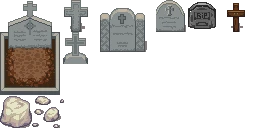
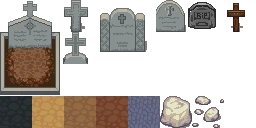
Lay a stone floor that keeps its mouth shut
The floor is stone now, and rolled: five fills, one picked per fight, laid in
world space so it lies down with the grid.

This looks like walking back the decision that threw the generated floor out,
and it is the opposite. That decision's sentence was not "no picture" — it was
that the ground is the one surface here which must not have opinions, because
every mechanic is drawn on it and those are what a player is reading. The
generated floor was a painted image that added light and had to be knocked down
to a third of its strength before it stopped competing. A dark pebbled grain
adds none: it breaks up a tone instead of arguing with a telegraph.

The alpha was looked at rather than reasoned about, which is what the comment
above it now claims and so had to be true. Rendered against a live telegraph at
three values: at 0.15 it is the old floor, at 0.60 the grid lines start coming
forward and the ground begins competing for the eye, and at 0.35 the floor
reads as stone and the red ellipse still reads first.

**Five stones and none of their colour.** The fills are sand, clay, brick and
slate, and a floor that took their hue would be an orange arena on one pull and
a red one on the next — the encounter's own accent drowned by whatever the tile
happened to be. So the saturation is composited out of the tile and only its
light and shade survive, which is the same rule the slabs under it already
keep: the floor takes the fight's colour, not the artist's. What varies between
[…]

Changed region(s): [[0.0, 0.75, 0.875, 1.0]]

diff --git a/src/render/draw.ts b/src/render/draw.ts
@@ -35,7 +35,7 @@ import {
 import type { Actor, BgState, ProjectileKind, SimState, Vec2 } from '../sim/types'
 import { iconFor } from './icons'
 import type { Effects } from './effects'
-import { drawScenery } from './scenery'
+import { drawScenery, floorTexture } from './scenery'
 import { COLORS, L, classColor } from './theme'
 import { drawBody, hasBody } from './lpcimage'
 import { drawBolt } from './boltimage'
@@ -284,7 +284,12 @@ export function drawWorld(
   ctx.save()
   ctx.translate(shove.x * L.scale, shove.y * L.scale)
 
-  drawArena(ctx, s.mode === 'raid' ? encounterAt(s.encounter).accent : COLORS.boss)
+  drawArena(
+    ctx,
+    s.mode === 'raid' ? encounterAt(s.encounter).accent : COLORS.boss,
+    s.seed,
+    s.encounter,
+  )
   // Outside the wall and under everything in the fight, which is where it
   // belongs twice over: it is scenery, and the floor it is standing beside is
   // the surface every mechanic is read on.
@@ -617,6 +622,15 @@ function drawRaidFlash(ctx: CanvasRenderingContext2D, s: SimState): void {
  * space and slides past the player, so a slab has to be the same slab every
  * frame or the floor boils.
  */
+/**
+ * How much of the stone is let through.
+ *
+ * The one number in this file that has to be looked at rather than reasoned
+ * about, so it was: rendered against a telegraph at several values and judged
+ * on whether the telegraph still reads first.
+ */
+const FLOOR_STONE = 0.35
+
 function slabAccent(colour: string, alpha: number): string {
   // The accent table is all six-digit hex, which is the only form this reads.
   if (!/^#[0-9a-f]{6}$/i.test(colour)) return colour
@@ -634,7 +648,12 @@ function slabTone(gx: number, gy: number): number {
   return ((h ^ (h >>> 16)) >>> 8) & 0xff
 }
 
-function drawArena(ctx: CanvasRenderingContext2D, accent: string = COLORS.boss): void {
+function drawArena(
+  ctx: CanvasRenderingContext2D,
+  accent: string = COLORS.boss,
+  seed = 0,
+  encounter = 0,
+): void {
   // The arena is centred on the world origin; the camera decides where that
   // lands on screen. The grid is drawn in world space too, so it slides past
   // the player and makes their own movement readable.
@@ -677,6 +696,27 @@ function drawArena(ctx: CanvasRenderingContext2D, accent: string = COLORS.boss):
   ctx.translate(c.x, c.y)
   ctx.scale(1, TILT)
   ctx.rotate(viewAngle())
+
+  // The floor's own stone, laid in world space so it lies down with the grid.
+  //
+  // Under the slabs rather than instead of them: the slabs are a hash of the
+  // cell and never repeat, and the stone is thirty-two pixels that repeat
+  // forever, so the two answer different halves of the same question — one
+  // stops the ground being a flat fill at arm's length, the other stops it
+  // being one at a glance.
+  //
+  // Dark and low. What the generated floor was thrown out for was competing
+  // with the telegraphs drawn on it, and the lesson was not "no picture" but
+  // "the ground must not have opinions": a texture that adds light argues with
+  // every mechanic, and one that only breaks up a tone does not.
+  const stone = floorTexture(ctx, seed, encounter)
+  if (stone) {
+    ctx.save()
+    ctx.globalAlpha = FLOOR_STONE
+    ctx.fillStyle = stone
+    ctx.fillRect(-L.w, -L.h, L.w * 2, L.h * 2)
+    ctx.restore()
+  }
 
   const reach = ARENA_RADIUS * L.scale
   const slab = 64 * L.scale

diff --git a/src/render/scenery.ts b/src/render/scenery.ts
@@ -73,6 +73,12 @@ interface Piece {
   scale: number
 }
 
+/** Everything in the sheet that is an object rather than a surface. */
+const STANDING = PROP_IDS.filter((id) => !id.startsWith('floor-'))
+
+/** And everything that is a surface, in a fixed order so a seed picks one. */
+const FLOORS = PROP_IDS.filter((id) => id.startsWith('floor-')).sort()
+
 let planned: { key: string; pieces: Piece[] } | null = null
 
 /**
@@ -106,7 +112,7 @@ function plan(seed: number, encounter: number): Piece[] {
     const angle = i * slice + rng.range(0.15, 0.85) * slice
     const out = ARENA_RADIUS + rng.range(NEAR, FAR)
     pieces.push({
-      id: PROP_IDS[rng.int(PROP_IDS.length)]!,
+      id: STANDING[rng.int(STANDING.length)]!,
       at: { x: Math.cos(angle) * out, y: Math.sin(angle) * out },
       scale: rng.range(0.85, 1.15),
     })
@@ -114,6 +120,61 @@ function plan(seed: number, encounter: number): Piece[] {
 
   planned = { key, pieces }
   return pieces
+}
+
+/**
+ * The floor's own surface, as a repeating pattern.
+ *
+ * Cut out of the props sheet into a canvas of its own, because a pattern made
+ * from the sheet would repeat the whole sheet — every headstone tiled across
+ * the arena. One extra canvas, made once.
+ *
+ * Null until the sheet arrives, and the caller draws its flat fill either way:
+ * the floor is a complete floor without this.
+ */
+let floorPattern: CanvasPattern | null | undefined
+let floorFor: CanvasRenderingContext2D | null = null
+let floorKey = ''
+
+export function floorTexture(
+  ctx: CanvasRenderingContext2D,
+  seed: number,
+  encounter: number,
+): CanvasPattern | null {
+  begin()
+  if (!sheet || FLOORS.length === 0) return null
+  // A pattern belongs to the context that made it, and the harness makes more
+  // than one.
+  const key = `${seed}:${encounter}`
+  if (floorPattern !== undefined && floorFor === ctx && floorKey === key) return floorPattern
+
+  // Rolled off the fight, like the room around it.
+  const pick = FLOORS[new Rng(seed * 17 + encounter * 104729 + 7919).int(FLOORS.length)]!
+  const rect = PROPS[pick]
+  if (!rect) return null
+  const [sx, sy, sw, sh] = rect
+  const tile = document.createElement('canvas')
+  tile.width = sw
+  tile.height = sh
+  const tc = tile.getContext('2d')
+  if (!tc) return null
+  tc.imageSmoothingEnabled = false
+  tc.drawImage(sheet, sx, sy, sw, sh, 0, 0, sw, sh)
+  // The hue thrown away and the light kept.
+  //
+  // These fills are sand and clay and brick, and a floor that took their
+  // colour would be an orange arena on one pull and a red one on the next —
+  // the encounter's accent drowned by whatever the tile happened to be. What
+  // is wanted from them is the grain, so the saturation is taken out and the
+  // arena's own colour shows through underneath.
+  tc.globalCompositeOperation = 'saturation'
+  tc.fillStyle = '#808080'
+  tc.fillRect(0, 0, sw, sh)
+
+  floorFor = ctx
+  floorKey = key
+  floorPattern = ctx.createPattern(tile, 'repeat')
+  return floorPattern
 }
 
 /**

diff --git a/scripts/tiles.ts b/scripts/tiles.ts
@@ -107,6 +107,24 @@ const PIECES: Piece[] = [
   // this game does not have. A flat piece needs the floor's own tilt on it,
   // which is a second way of drawing rather than a second entry in a table.
 
+  // Sharm's floor, and the only piece here that repeats: everything else is an
+  // object and this is a surface. Picked by tiling the candidates five across
+  // and looking — the neighbouring fills in the same set are the bordered ones
+  // and show their own edges every thirty-two pixels, which on a floor this
+  // size is a visible weave.
+  //
+  // Five of them, and the renderer picks one per fight. They are wildly
+  // different colours — sand, clay, brick, slate — and none of that colour
+  // reaches the floor: the pattern is taken and the hue is thrown away, for
+  // the same reason the slabs under it are drawn in the encounter's accent
+  // rather than in whatever an artist chose. What varies between rooms is the
+  // stone; what says which fight this is stays the fight's own.
+  { id: 'floor-slate', sheet: 'Terrain and Outside.png', x: 320, y: 96, w: 32, h: 32, by: 'sharm' },
+  { id: 'floor-sand', sheet: 'Terrain and Outside.png', x: 32, y: 96, w: 32, h: 32, by: 'sharm' },
+  { id: 'floor-earth', sheet: 'Terrain and Outside.png', x: 128, y: 96, w: 32, h: 32, by: 'sharm' },
+  { id: 'floor-clay', sheet: 'Terrain and Outside.png', x: 224, y: 96, w: 32, h: 32, by: 'sharm' },
+  { id: 'floor-cobble', sheet: 'Terrain and Outside.png', x: 192, y: 384, w: 32, h: 32, by: 'sharm' },
+
   // Sharm's white rocks.
   { id: 'rock', sheet: 'Terrain and Outside.png', x: 960, y: 544, w: 32, h: 32, by: 'sharm' },
   { id: 'rocks', sheet: 'Terrain and Outside.png', x: 992, y: 544, w: 32, h: 32, by: 'sharm' },

diff --git a/src/render/props.ts b/src/render/props.ts
@@ -15,8 +15,13 @@ export const PROPS: Record<string, [number, number, number, number]> = {
   'grave-rip': [188, 0, 32, 50],
   'grave-pair': [92, 0, 64, 54],
   'cross-wood': [220, 0, 32, 46],
-  'rock': [0, 96, 32, 32],
-  'rocks': [32, 96, 32, 32],
+  'floor-slate': [0, 96, 32, 32],
+  'floor-sand': [32, 96, 32, 32],
+  'floor-earth': [64, 96, 32, 32],
+  'floor-clay': [96, 96, 32, 32],
+  'floor-cobble': [128, 96, 32, 32],
+  'rock': [160, 96, 32, 32],
+  'rocks': [192, 96, 32, 32],
 }
 
 export const PROP_IDS = Object.keys(PROPS)

diff --git a/art/LPC-TERRAIN-CREDITS.md b/art/LPC-TERRAIN-CREDITS.md
@@ -17,4 +17,4 @@ complied with. The packer refuses a piece that names no author.
 
 - **Lanea Zimmerman (AKA Sharm)** — CC-BY 3.0 / GPL 3.0 / GPL 2.0 / OGA-BY 3.0
   <https://opengameart.org/content/tiled-terrains>
-  rock, rocks
+  floor-clay, floor-cobble, floor-earth, floor-sand, floor-slate, rock, rocks
